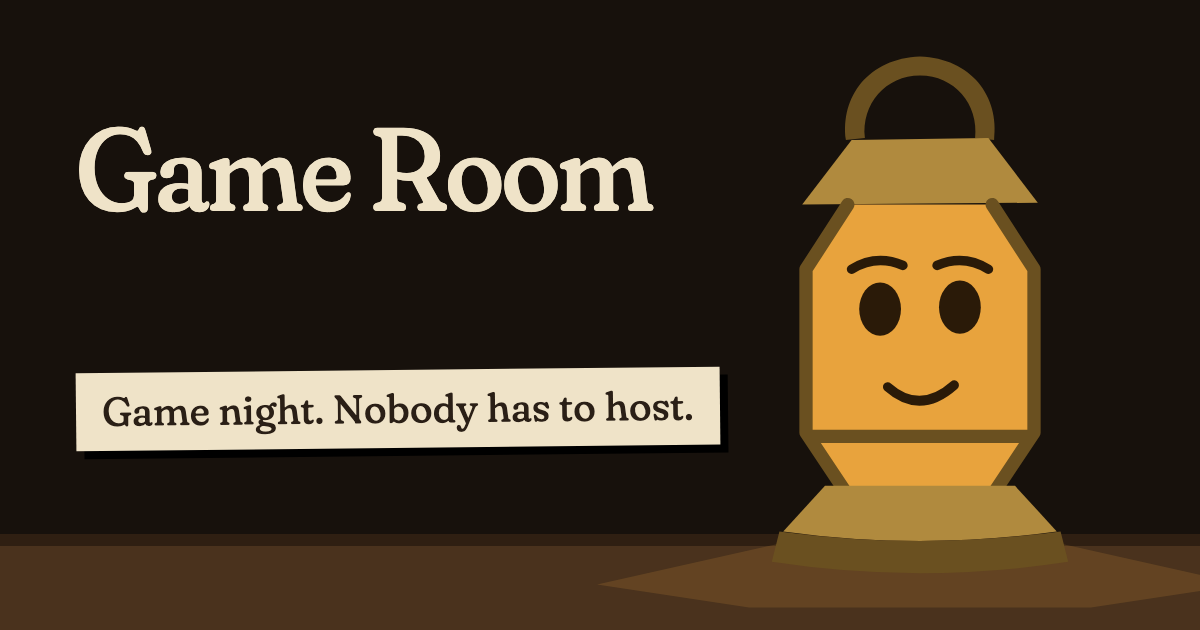
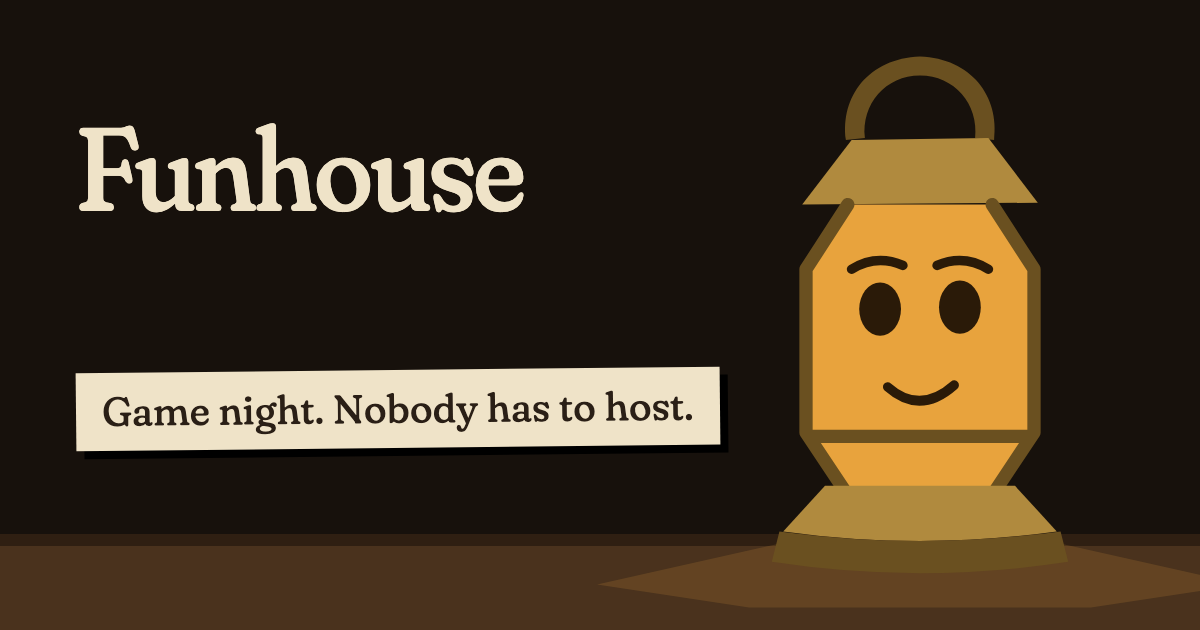
Rename the product to Funhouse, at funhouse.live
The product now has its name and domain. It's updated in the page titles, share tags, app
manifest, share image, README and release default. The app installs as Funhouse. Internal
names such as the container labels and storage keys stay as they are, because nobody sees
them and changing them would drop saved seats.

Changed region(s): [[0.0617, 0.181, 0.555, 0.3619]]

diff --git a/tools/brand/share.html b/tools/brand/share.html
@@ -6,4 +6,4 @@ html, body { margin: 0; width: 1200px; height: 630px; overflow: hidden; backgrou
 svg.l { position: absolute; right: 90px; bottom: 34px; width: 380px; height: 551px; overflow: visible; }
 h1 { position: absolute; left: 76px; top: 110px; margin: 0; font-size: 118px; font-weight: 500; line-height: 1; letter-spacing: -0.015em; width: 660px; }
 .slip { position: absolute; left: 76px; top: 370px; padding: 16px 26px; background: #efe3c8; color: #2a1f16; font-size: 40px; line-height: 1.15; box-shadow: 8px 8px 0 #000; rotate: -0.6deg; }
-</style><h1>Game Room</h1><div class="slip">Game night. Nobody has to host.</div><div class="table"></div><svg class="l" viewBox="0 0 200 290"><path fill="#e8a33d" opacity="0.16" d="M-70 284L28 262h144l98 22-80 12H10z"/><path fill="#6a5020" d="M100 6c-27 1-42 21-39 44l10-1c-2-18 11-33 29-33s31 15 29 33l10 1c3-23-12-43-39-44z"/><path fill="#b08a3e" d="M64 50l72-1 26 34-124 1z"/><path fill="#e8a33d" d="M62 84h76l22 34v86l-20 30H60l-20-30v-86z"/><path fill="none" stroke="#2a1a08" stroke-width="5" stroke-linecap="round" d="M64 118q13-8 27-2M109 116q14-6 27 2"/><ellipse cx="79" cy="139" rx="11" ry="14" fill="#2a1a08"/><ellipse cx="121" cy="138" rx="11" ry="14" fill="#2a1a08"/><path fill="none" stroke="#2a1a08" stroke-width="5" stroke-linecap="round" d="M83 180q17 15 35-1"/><path fill="none" stroke="#6a5020" stroke-width="7" stroke-linejoin="round" stroke-linecap="round" d="M62 84L40 118v86l20 30M138 84l22 34v86l-20 30M42 206h116"/><path fill="#b08a3e" d="M50 232h100l22 24q-72 10-144 0z"/><path fill="#6a5020" d="M26 256q74 10 148 0l4 16q-78 12-156 0z"/></svg>
+</style><h1>Funhouse</h1><div class="slip">Game night. Nobody has to host.</div><div class="table"></div><svg class="l" viewBox="0 0 200 290"><path fill="#e8a33d" opacity="0.16" d="M-70 284L28 262h144l98 22-80 12H10z"/><path fill="#6a5020" d="M100 6c-27 1-42 21-39 44l10-1c-2-18 11-33 29-33s31 15 29 33l10 1c3-23-12-43-39-44z"/><path fill="#b08a3e" d="M64 50l72-1 26 34-124 1z"/><path fill="#e8a33d" d="M62 84h76l22 34v86l-20 30H60l-20-30v-86z"/><path fill="none" stroke="#2a1a08" stroke-width="5" stroke-linecap="round" d="M64 118q13-8 27-2M109 116q14-6 27 2"/><ellipse cx="79" cy="139" rx="11" ry="14" fill="#2a1a08"/><ellipse cx="121" cy="138" rx="11" ry="14" fill="#2a1a08"/><path fill="none" stroke="#2a1a08" stroke-width="5" stroke-linecap="round" d="M83 180q17 15 35-1"/><path fill="none" stroke="#6a5020" stroke-width="7" stroke-linejoin="round" stroke-linecap="round" d="M62 84L40 118v86l20 30M138 84l22 34v86l-20 30M42 206h116"/><path fill="#b08a3e" d="M50 232h100l22 24q-72 10-144 0z"/><path fill="#6a5020" d="M26 256q74 10 148 0l4 16q-78 12-156 0z"/></svg>

diff --git a/landing/index.html b/landing/index.html
@@ -12,16 +12,16 @@
     <meta name="mobile-web-app-capable" content="yes" />
     <meta name="apple-mobile-web-app-capable" content="yes" />
     <meta name="apple-mobile-web-app-status-bar-style" content="black-translucent" />
-    <meta name="apple-mobile-web-app-title" content="Game Room" />
-    <meta property="og:title" content="Game Room" />
+    <meta name="apple-mobile-web-app-title" content="Funhouse" />
+    <meta property="og:title" content="Funhouse" />
     <meta property="og:description" content="Game night, and nobody has to host. An AI host on your TV runs the game, and your phone is the controller." />
     <meta property="og:type" content="website" />
-    <meta property="og:image" content="https://your-domain.example/landing/brand/share.png" />
+    <meta property="og:image" content="https://funhouse.live/landing/brand/share.png" />
     <meta property="og:image:width" content="1200" />
     <meta property="og:image:height" content="630" />
     <meta property="og:image:alt" content="A brass lantern with a friendly face on a wooden table, beside the words Game night. Nobody has to host." />
     <meta name="twitter:card" content="summary_large_image" />
-    <title>Game Room</title>
+    <title>Funhouse</title>
 </head>
 <body>
     <div id="root"></div>

diff --git a/phone/index.html b/phone/index.html
@@ -11,16 +11,16 @@
     <meta name="mobile-web-app-capable" content="yes" />
     <meta name="apple-mobile-web-app-capable" content="yes" />
     <meta name="apple-mobile-web-app-status-bar-style" content="black-translucent" />
-    <meta name="apple-mobile-web-app-title" content="Game Room" />
-    <meta property="og:title" content="Game Room" />
+    <meta name="apple-mobile-web-app-title" content="Funhouse" />
+    <meta property="og:title" content="Funhouse" />
     <meta property="og:description" content="Game night, and nobody has to host. An AI host on your TV runs the game, and your phone is the controller." />
     <meta property="og:type" content="website" />
-    <meta property="og:image" content="https://your-domain.example/landing/brand/share.png" />
+    <meta property="og:image" content="https://funhouse.live/landing/brand/share.png" />
     <meta property="og:image:width" content="1200" />
     <meta property="og:image:height" content="630" />
     <meta property="og:image:alt" content="A brass lantern with a friendly face on a wooden table, beside the words Game night. Nobody has to host." />
     <meta name="twitter:card" content="summary_large_image" />
-    <title>Game Room</title>
+    <title>Funhouse</title>
 </head>
 <body>
     <div id="root"></div>

diff --git a/screen/index.html b/screen/index.html
@@ -7,15 +7,15 @@
     <link rel="icon" href="/landing/brand/favicon.svg" type="image/svg+xml" />
     <link rel="icon" href="/landing/brand/favicon-32.png" sizes="32x32" type="image/png" />
     <link rel="apple-touch-icon" href="/landing/brand/apple-touch-icon.png" />
-    <meta property="og:title" content="Game Room" />
+    <meta property="og:title" content="Funhouse" />
     <meta property="og:description" content="Game night, and nobody has to host. An AI host on your TV runs the game, and your phone is the controller." />
     <meta property="og:type" content="website" />
-    <meta property="og:image" content="https://your-domain.example/landing/brand/share.png" />
+    <meta property="og:image" content="https://funhouse.live/landing/brand/share.png" />
     <meta property="og:image:width" content="1200" />
     <meta property="og:image:height" content="630" />
     <meta property="og:image:alt" content="A brass lantern with a friendly face on a wooden table, beside the words Game night. Nobody has to host." />
     <meta name="twitter:card" content="summary_large_image" />
-    <title>Game Room</title>
+    <title>Funhouse</title>
 </head>
 <body>
     <div id="root"></div>

diff --git a/shared/scene.ts b/shared/scene.ts
@@ -3,6 +3,8 @@
 // vocabulary is what lets an authoring agent use it reliably and lets Muse Spark emit it as
 // structured output.
 
+import { PRODUCT_NAME } from "./brand.ts";
+
 /** Named style intents the renderer maps to its own tokens. The host picks by name. */
 export type Mood = "neutral" | "lobby" | "night" | "dawn" | "tense" | "victory" | "defeat";
 
@@ -54,7 +56,7 @@ export function lobbyScene(joinUrl: string, roomCode: string, players: RosterEnt
         mood: "lobby",
         transition: "fade",
         blocks: [
-            { type: "title", text: "Game Room", kicker: `Room ${roomCode}` },
+            { type: "title", text: PRODUCT_NAME, kicker: `Room ${roomCode}` },
             { type: "text", text: `Scan to join, or open ${joinUrl}` },
             { type: "roster", players },
         ],

diff --git a/shared/brand.ts b/shared/brand.ts
@@ -1,9 +1,9 @@
-// The names of things. Both are still being decided, so code doesn't spell them out. To rename
-// the product, also change the three index.html files, landing/public/brand/manifest.webmanifest
+// The names of things. The product is Funhouse, at funhouse.live. The host's name may still
+// change, so code doesn't spell either out. To rename the product, also change the three index.html files, landing/public/brand/manifest.webmanifest
 // and tools/brand/share.html, then run tools/brand/make.sh.
 
 /** What the product is called. */
-export const PRODUCT_NAME: string = "Game Room";
+export const PRODUCT_NAME: string = "Funhouse";
 
 /** What the host is called. */
 export const HOST_NAME: string = "Marlowe";

diff --git a/shared/cartridge.ts b/shared/cartridge.ts
@@ -1,4 +1,4 @@
-// The cartridge contract: what a game is to Game Room. The rules core is code the room runs
+// The cartridge contract: what a game is to Funhouse. The rules core is code the room runs
 // in isolation. The manifest is declarative: the host's brief, per-phase listening modes and
 // controls, and variant options collected in the lobby. The room never lets the host override
 // the rules; the host narrates whatever the rules say is true.

diff --git a/README.md b/README.md
@@ -1,8 +1,8 @@
-# Game Room
+# Funhouse
 
-An AI-hosted virtual game room. Friends scan a QR code with their phones and join a shared
+An AI-hosted game night at [funhouse.live](https://funhouse.live). Friends scan a QR code with their phones and join a shared
 room. An AI host runs the night: it listens to every player on their own stream, talks back,
-draws on the big screen, keeps secrets, and can play too. Game Room is the console; games
+draws on the big screen, keeps secrets, and can play too. Funhouse is the console; games
 are cartridges: Twenty Doors, Quizmaster and Werewolf so far.
 
 Built during the Meta Global AI Developer Hackathon, Oct 26 to Nov 4, 2026. Everything in
